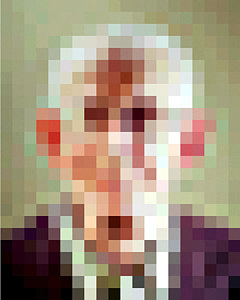
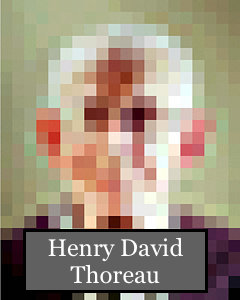
bugs still present

Changed region(s): [[0.0875, 0.75, 0.875, 0.99]]

diff --git a/oldhouse.js b/oldhouse.js
@@ -1,9 +1,15 @@
 var oldhouse = [];
+var imgurl=window.document.getElementById('portrait')
+var imgName=window.document.getElementById('portraitName')
+var imgSpeech=window.document.getElementById('portraitSpeech')
+var goodDeeds=0
 oldhouse[0] = function() {
-	var title = "A sunny hallway";
-	var description = "The sunlight streams in through the windows to the east, causing dust particles in the air to glimmer while drifting between the shafts of light.";
-	var exitsDescription = "The hall continues to the <strong>north</strong>. The great entry hall can be seen to the <strong>south</strong>.";
+	var title = "Log Cabin";
+	var description = "";
+	var exitsDescription = "";
 	var visited = false;
+	
+
 	this.actions = function(command, commandData) {
 		if (typeof (this[command]) == "function") {
 			return this[command](commandData);
@@ -23,6 +29,7 @@ oldhouse[0] = function() {
 		system.println("You walk north.");
 		system.println("");
 		player.setPosition(0, 1);
+
 		return true;
 	};
 	this.n = this.north;
@@ -101,9 +108,10 @@ oldhouse[1] = function() {
 };
 oldhouse[2] = function() {
 	var title = "Log Cabin";
-	var description = "You wake up";
-	var exitsDescription = "A hallway extends to the <strong>north</strong>. The door to the south does not look like it will open.";
+	var description = "<i>You are awoken by a sharp pain on your neck, noticing the deadliest spider of Massachusetts has bitten you. Because of your savvy outdoorsmanship, you come to the understanding you have around 24 hours left to live. You also regret passing up on the industrial insulation that would have kept spiders out of your home.  </i><br>";
+	var exitsDescription = "You consider <u>Stand</u>ing up from your <u>bed</u> to evaluate the situation. ";
 	var visited = false;
+
 	this.actions = function(command, commandData) {
 		if (typeof (this[command]) == "function") {
 			return this[command](commandData);
@@ -118,26 +126,52 @@ oldhouse[2] = function() {
 			system.println(exitsDescription);
 			visited = true;
 		}
-
 	};
-	this.north = function() {
-		system.println("You walk north.");
+	this.stand = function() {
+		system.println("...");
+		system.println("<i>You stand up and take a deep breath. The morning sunlight streams in through the curtainless windows, causing dust particles in the air to glimmer. Wally starts barking at you, hes probably hungry. On your table you see a pile of unattended IRS letters amounting to 2500$ in taxes due.</i>")
+		system.println("One of the tables legs is being supported by a bar of gold. Its worth approximitly a lifetime supply of dogfood, or 2500$. You consider heading down the <u>road</u> to the local village or going about what you planned on doing today anyways over at Walden <u>pond</u>. ");
 		system.println("");
-		player.setPosition(0, 0);
+		imgurl.innerHTML="<img src='img/dog.jpg'></img>"
+		imgName.textContent="Wally:"
+		imgSpeech.textContent="'Woof! Woof! (whimper)'"
 		return true;
 	};
-	this.n = this.north;
+	this.pond = function(){
+		system.title('Walden Pond')
+		system.println("...");
+		system.println("...");
+		imgurl.innerHTML="<img src='img/marcher.jpg'></img>"
+		imgName.textContent="John Marcher:"
+		imgSpeech.textContent="'...'"
+		return true
 
-	this.look = function(commandData) {
-		if (commandData.length <= 0) {
-			system.println("You look around.");
-			system.println("");
-			system.println(description);
-			system.println(exitsDescription);
+	};
+
+	this.bed = function(commandData) {
+		system.println("You sleep in for 24 hours");
+		system.println("...");
+		system.println("ENDING 1/6 (Quietism)");
+		imgurl.innerHTML="<img src='img/bartleby.jpg'></img>"
+		imgName.textContent="Ghost of Herman Melville:"
+		imgSpeech.textContent="'Ah Thoreau! Ah Humanity!'"
+		return true;
+	};
+	this.l = this.look;
+};
+oldhouse[4] = function() {
+	var title = "ENDING 1/6 (Are you seriously that lazy?)";
+	var description = "The polished marble floors echo with footsteps, augmenting the already voluminous size of the ballroom. In the center of the tremendous vaulted ceiling hangs an enormous crystal chandelier, casting sparkles of light across the ornately gilded walls.";
+	var exitsDescription = "A hallway extends beneath an archway to the <strong>south</strong>.";
+	var visited = false;
+	this.actions = function(command, commandData) {
+		if (typeof (this[command]) == "function") {
+			return this[command](commandData);
 		}
 		return false;
 	};
-	this.l = this.look;
+	
+
 };
 oldhouse[3] = function() {
 	var title = "Grand Ballroom";

diff --git a/index.html b/index.html
@@ -28,13 +28,55 @@ button {
 strong {
 	color: white;
 }
+img {
+	width:100%;
+	height:100%;
+}
+#portrait
+{
+width:240px;
+height:300px;
+
+animation:myfirst 5s linear infinite;
+-moz-animation:myfirst 5s linear infinite; /* Firefox */
+-webkit-animation:myfirst 5s linear infinite; /* Safari and Chrome */
+-o-animation:myfirst 5s linear infinite; /* Opera */
+}
+
+#thoreau
+{
+width:240px;
+height:300px;
+}
+
+@keyframes myfirst
+{
+0%,100%   {transform: rotate(0deg)}
+10%	{transform: rotate(2deg)}
+20% {transform: rotate(0deg)}
+30% {transform: rotate(-2deg)}
+40% {transform: rotate(0deg)}
+50% {transform: rotate(2deg)}
+60% {transform: rotate(0deg)}
+70%	{transform: rotate(-2deg)}
+80%	{transform: rotate(0deg)}
+90% {transform: rotate(2deg)}
+
+
+}
+
 </style>
 </head>
 <body>
-	<div id='portrait'><img src='img/thoreau.jpg'></img></div>
+	<div id='thoreau'><img src='img/Henry_David_Thoreau.jpg'></img></div>
 	<div id="output" style="height: 300px; overflow: auto; overflow-x: hidden;"></div>
 	<input type="text" id="input" style="max-width: 500px; width: 70%" />
 	<button id="submit" onclick="javascript:;">Submit</button>
+	<div>
+	<div id='portrait' style="position: absolute; left:50%; top:1%;"></div>
+	<h2 id='portraitName'></h2>
+	<h3 id='portraitSpeech'></h3>
+	</div>
 	<script type="text/javascript" src="world.js"></script>
 	<script type="text/javascript" src="player.js"></script>
 	<script type="text/javascript" src="oldhouse.js"></script>
